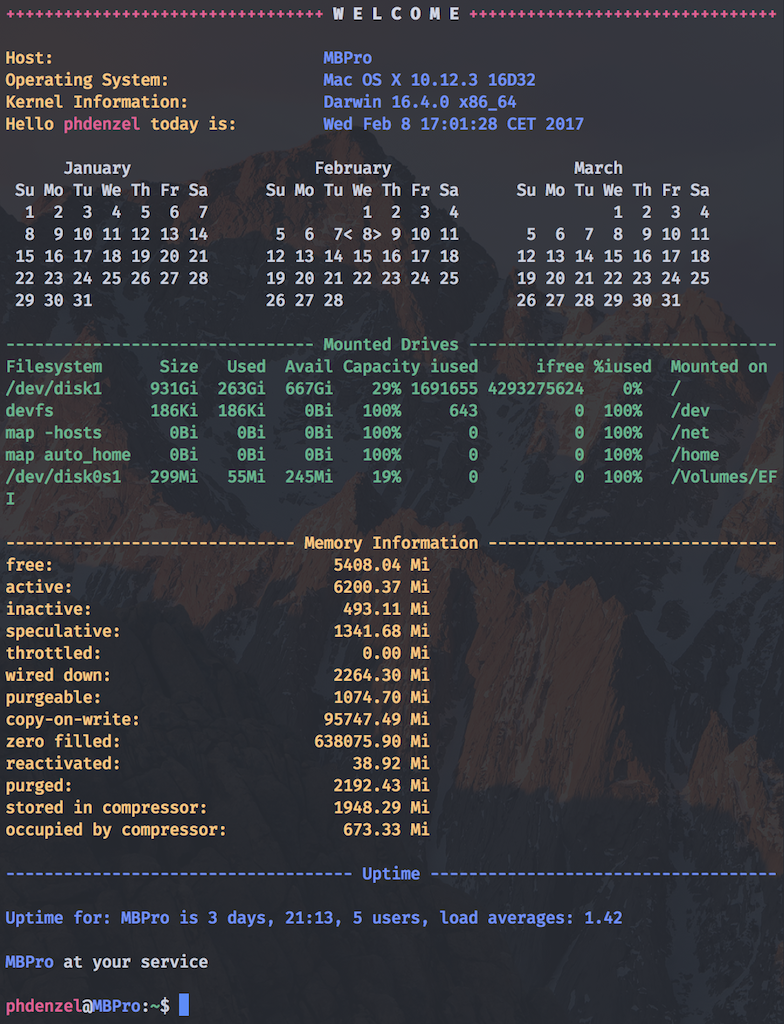
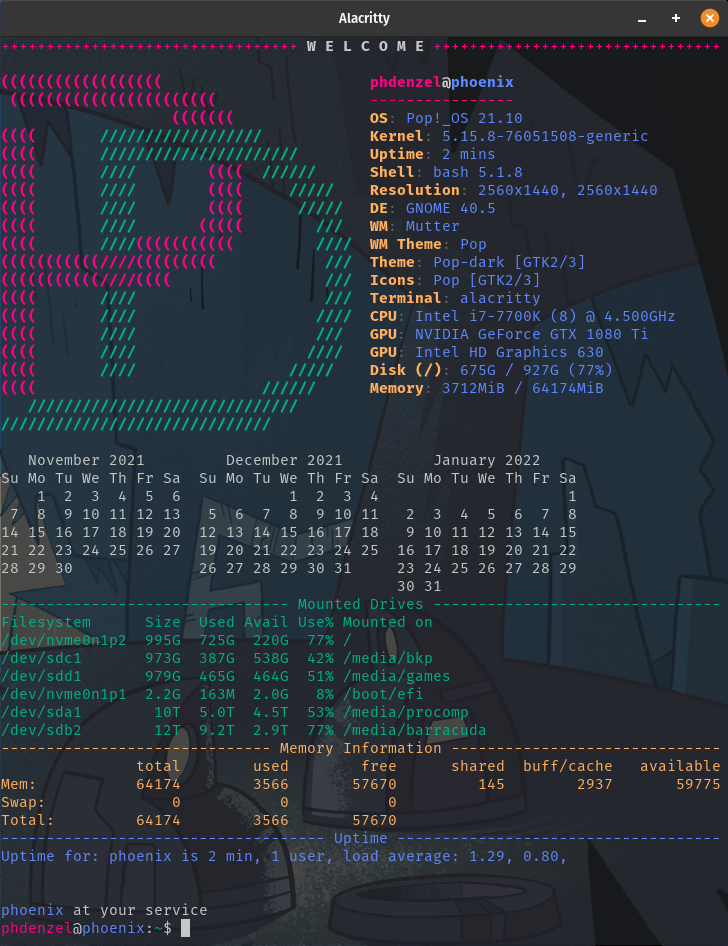
Updated screenshot in README

diff --git a/README.md b/README.md
@@ -11,7 +11,7 @@ The repository can be cloned wherever you want; a natural place would be `~/dotf
 The files in `custom/` are probably no use to anyone except me, but I included them anyways, just in case somebody wants to change them for their own use.
 
 ### Example
-![Screenshot of my shell prompt](screenshot.png)
+![Screenshot of my shell prompt](imgs/screenshot.png)
   
 ### Install
 
